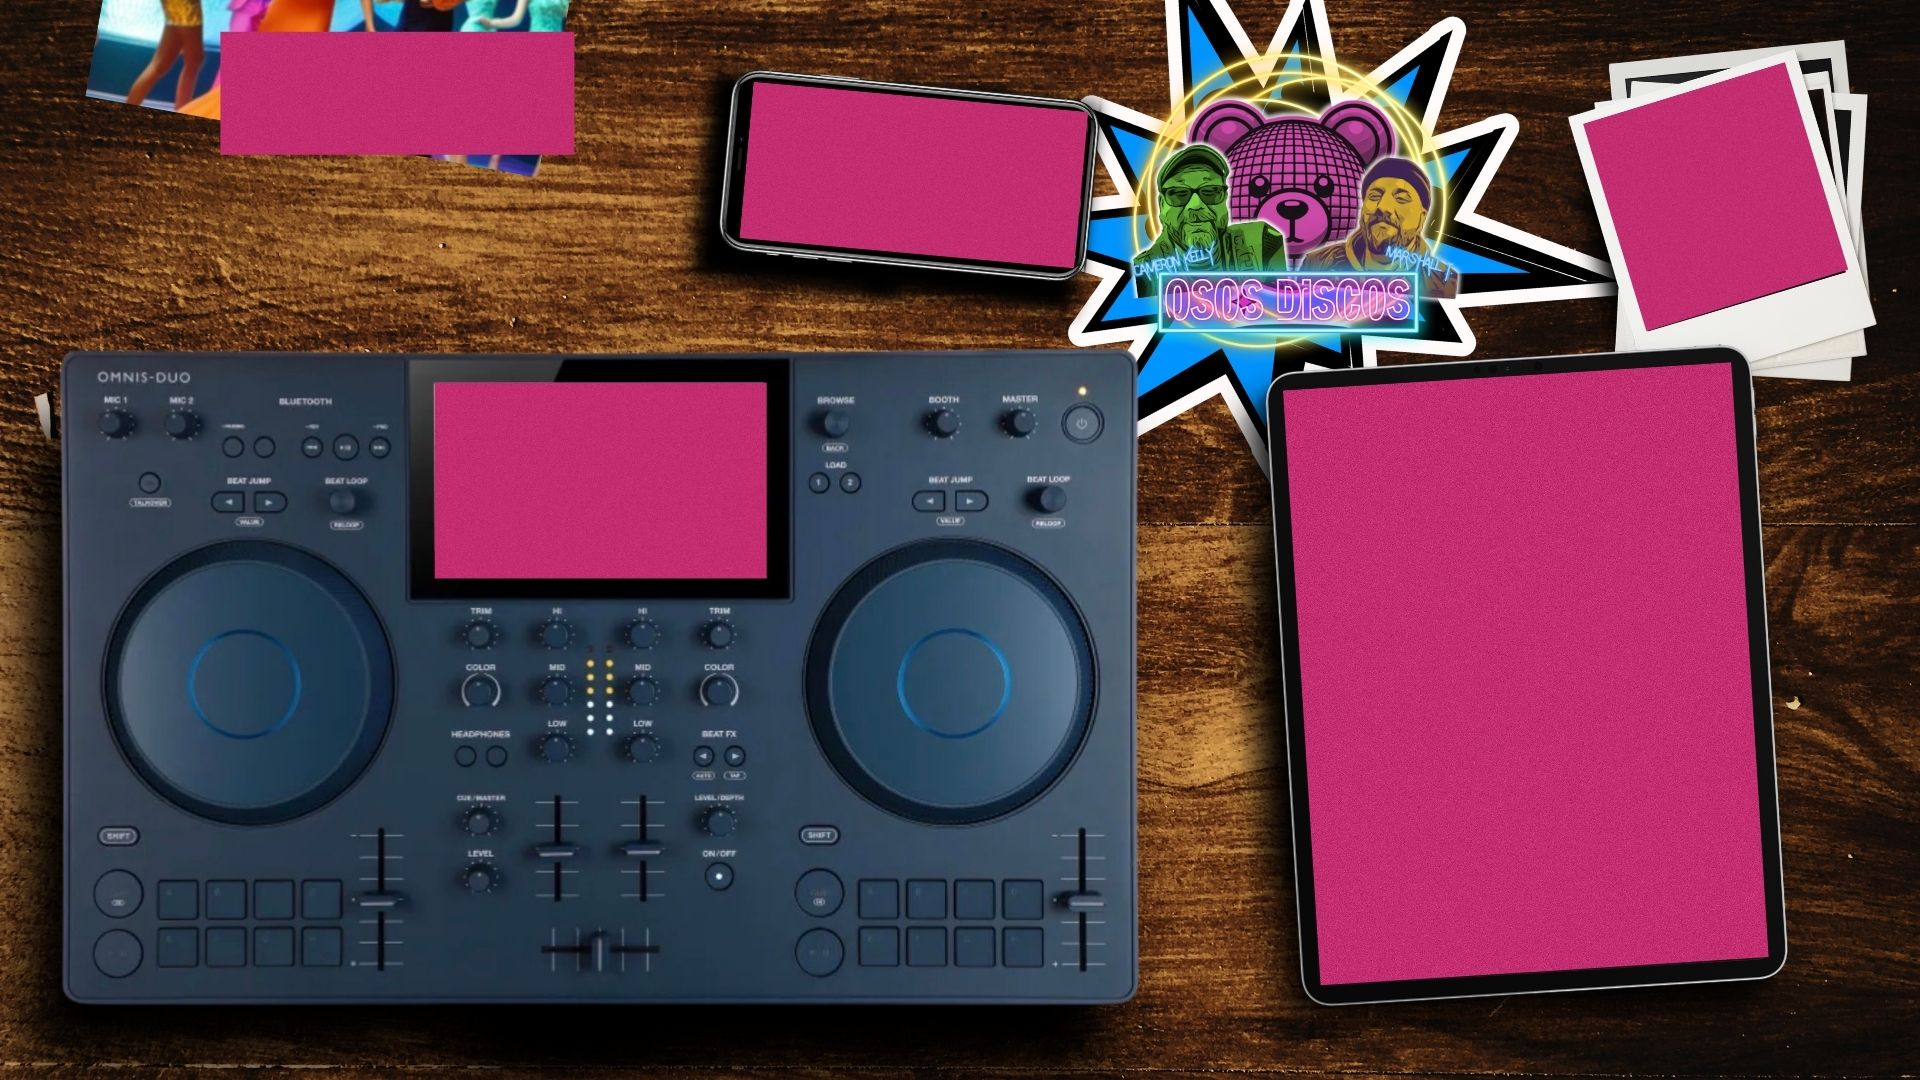
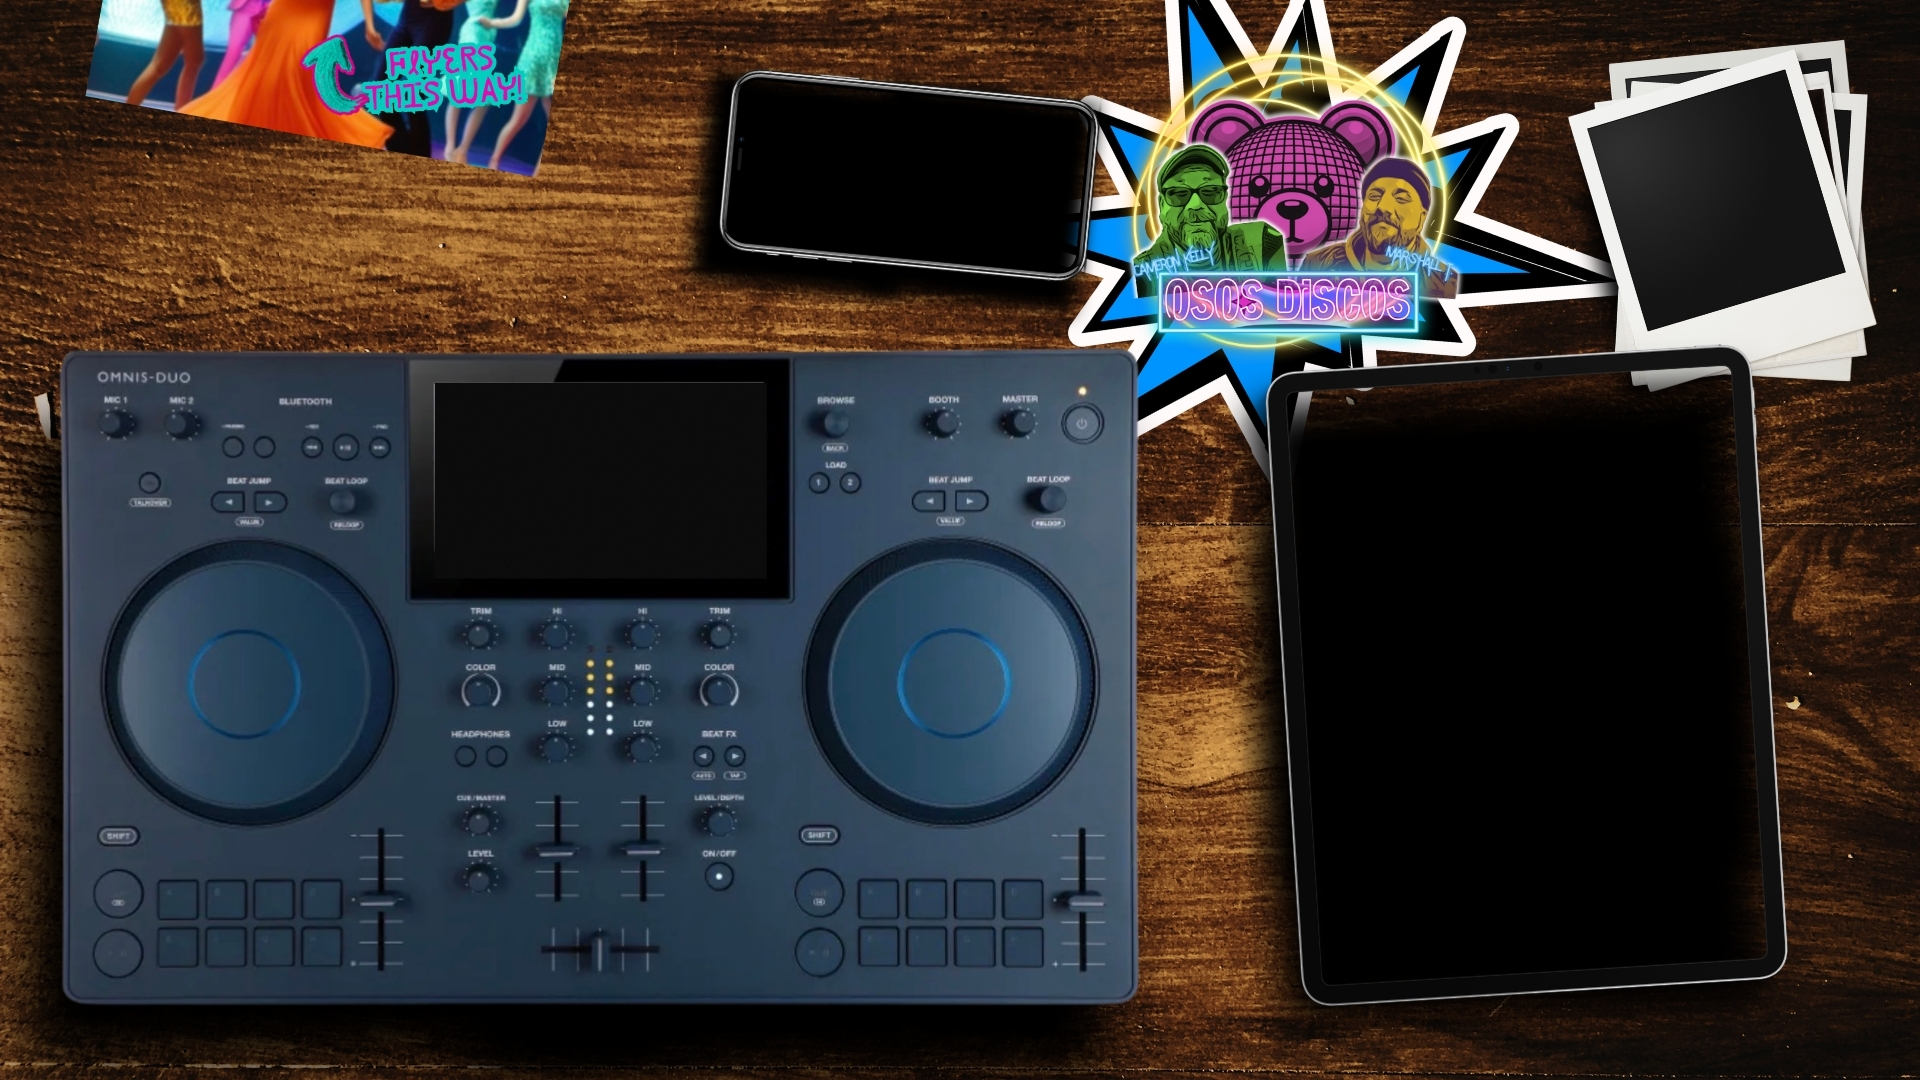
New backgrounds + re-measured overlay coordinates
- bg-table.jpg / bg-wall.jpg: updated Canva designs
- DJTable overlays re-measured to match new bg-table.jpg:
  Flyer btn:   x=10   y=5    w=430 h=165
  Phone:       x=480  y=50   w=250 h=165  rot=5.2°
  Polaroids:   x=1190 y=10   w=212 h=248  rot=-17°
  SoundCloud:  x=154  y=151  w=460 h=162
  iPad:        x=810  y=170  w=470 h=665  rot=-3.6°

diff --git a/frontend/components/DJTable.tsx b/frontend/components/DJTable.tsx
@@ -2,14 +2,14 @@
  * DJTable — Scene 1
  *
  * Fixed 1920×1080 design canvas scaled via CSS transform to fit the viewport.
- * All overlay positions are in 1920×1080 pixel space as measured/specified.
+ * All overlay positions re-measured from the NEW bg-table.jpg.
  *
  * Coordinates (x, y, w, h, rotation°):
- *   Flyer page button   : 220.4,  31.7, 353.7, 123.3,    0°
- *   Phone media player  : 739.4,  81.7, 335.9, 157.1,  5.2°
- *   Polaroid stack      : 1583.1, 62.2, 210.7, 216.7, -17°
- *   SoundCloud player   : 434.7, 382.5, 332.4, 195.6,    0°
- *   iPad / booking      : 1283,  362.3,   449, 596.2, -3.6°
+ *   Flyer page button   :  10,    5,  430, 165,    0°
+ *   Phone media player  : 480,   50,  250, 165,  5.2°
+ *   Polaroid stack      : 1190,  10,  212, 248,  -17°
+ *   SoundCloud player   : 154,  151,  460, 162,    0°
+ *   iPad / booking      : 810,  170,  470, 665, -3.6°
  */
 import { useState, useEffect } from "react"
 import Link from "next/link"
@@ -70,7 +70,6 @@ export default function DJTable() {
 
   return (
     <div style={{ position: "relative", width: "100vw", height: "100vh", overflow: "hidden", background: "#14100a" }}>
-      {/* Fixed 1920×1080 canvas, scaled to fit the viewport */}
       <div style={{
         position:        "absolute",
         width:           CANVAS_W,
@@ -80,7 +79,7 @@ export default function DJTable() {
         transform:       `translate(-50%, -50%) scale(${scale})`,
         transformOrigin: "center center",
       }}>
-        {/* Background — stretched to fill canvas exactly */}
+        {/* Background */}
         <div style={{
           position:         "absolute",
           inset:            0,
@@ -90,14 +89,14 @@ export default function DJTable() {
           zIndex:           1,
         }} />
 
-        {/* ── FLYER PAGE BUTTON — 220.4, 31.7, 353.7, 123.3, 0° ── */}
+        {/* ── FLYER PAGE BUTTON — 10, 5, 430, 165, 0° ── */}
         <Link href="/flyers"
-          style={{ ...px(220.4, 31.7, 353.7, 123.3), zIndex: 30, display: "block" }}
+          style={{ ...px(10, 5, 430, 165), zIndex: 30, display: "block" }}
           aria-label="View flyers"
         />
 
-        {/* ── PHONE MEDIA PLAYER — 739.4, 81.7, 335.9, 157.1, 5.2° ── */}
-        <div style={{ ...px(739.4, 81.7, 335.9, 157.1), transform: "rotate(5.2deg)", overflow: "hidden", borderRadius: "5%", zIndex: 10 }}>
+        {/* ── PHONE MEDIA PLAYER — 480, 50, 250, 165, 5.2° ── */}
+        <div style={{ ...px(480, 50, 250, 165), transform: "rotate(5.2deg)", overflow: "hidden", borderRadius: "6%", zIndex: 10 }}>
           {settings.phone_video_url ? (
             <video
               src={settings.phone_video_url}
@@ -105,17 +104,17 @@ export default function DJTable() {
               style={{ width: "100%", height: "100%", objectFit: "cover", display: "block" }}
             />
           ) : (
-            <div style={{ width: "100%", height: "100%", background: "#000" }} />
+            <div style={{ width: "100%", height: "100%", background: "#111" }} />
           )}
         </div>
 
-        {/* ── POLAROID STACK — 1583.1, 62.2, 210.7, 216.7, -17° ── */}
-        <div style={{ ...px(1583.1, 62.2, 210.7, 216.7), transform: "rotate(-17deg)", zIndex: 10 }}>
+        {/* ── POLAROID STACK — 1190, 10, 212, 248, -17° ── */}
+        <div style={{ ...px(1190, 10, 212, 248), transform: "rotate(-17deg)", zIndex: 10 }}>
           <DJTablePolaroids photos={settings.polaroid_photos} />
         </div>
 
-        {/* ── SOUNDCLOUD PLAYER — 434.7, 382.5, 332.4, 195.6, 0° ── */}
-        <div style={{ ...px(434.7, 382.5, 332.4, 195.6), overflow: "hidden", borderRadius: "1%", zIndex: 10 }}>
+        {/* ── SOUNDCLOUD PLAYER — 154, 151, 460, 162, 0° ── */}
+        <div style={{ ...px(154, 151, 460, 162), overflow: "hidden", borderRadius: "2%", zIndex: 10 }}>
           <iframe
             src={embedUrl}
             width="100%" height="100%"
@@ -126,8 +125,8 @@ export default function DJTable() {
           />
         </div>
 
-        {/* ── iPAD / BOOKING — 1283, 362.3, 449, 596.2, -3.6° ── */}
-        <div style={{ ...px(1283, 362.3, 449, 596.2), transform: "rotate(-3.6deg)", overflow: "hidden", borderRadius: "1%", zIndex: 10 }}>
+        {/* ── iPAD / BOOKING — 810, 170, 470, 665, -3.6° ── */}
+        <div style={{ ...px(810, 170, 470, 665), transform: "rotate(-3.6deg)", overflow: "hidden", borderRadius: "2%", zIndex: 10 }}>
           <DJTableIPad />
         </div>
 
@@ -136,22 +135,16 @@ export default function DJTable() {
   )
 }
 
-// ── Helper ─────────────────────────────────────────────────────────────────────
 function px(x: number, y: number, w: number, h: number): React.CSSProperties {
   return { position: "absolute", left: x, top: y, width: w, height: h }
 }
 
-// ── Mobile fallback ────────────────────────────────────────────────────────────
 function MobileScene({ settings, embedUrl }: { settings: Settings; embedUrl: string }) {
   return (
     <div style={{ minHeight: "100vh", background: "#1a120a", display: "flex", flexDirection: "column", alignItems: "center", padding: "20px 16px 40px", gap: 20 }}>
       <div style={{ display: "flex", alignItems: "center", justifyContent: "space-between", width: "100%", maxWidth: 480 }}>
-        <img
-          src="/osos-sticker.png"
-          alt="Osos Discos"
-          style={{ height: 56, objectFit: "contain" }}
-          onError={e => { (e.currentTarget as HTMLImageElement).style.display = "none" }}
-        />
+        <img src="/osos-sticker.png" alt="Osos Discos" style={{ height: 56, objectFit: "contain" }}
+          onError={e => { (e.currentTarget as HTMLImageElement).style.display = "none" }} />
         <Link href="/flyers" style={{
           padding: "8px 16px", background: "#cc2478", color: "#fff",
           borderRadius: 20, fontSize: 12, fontWeight: 700, textDecoration: "none", letterSpacing: 1,
